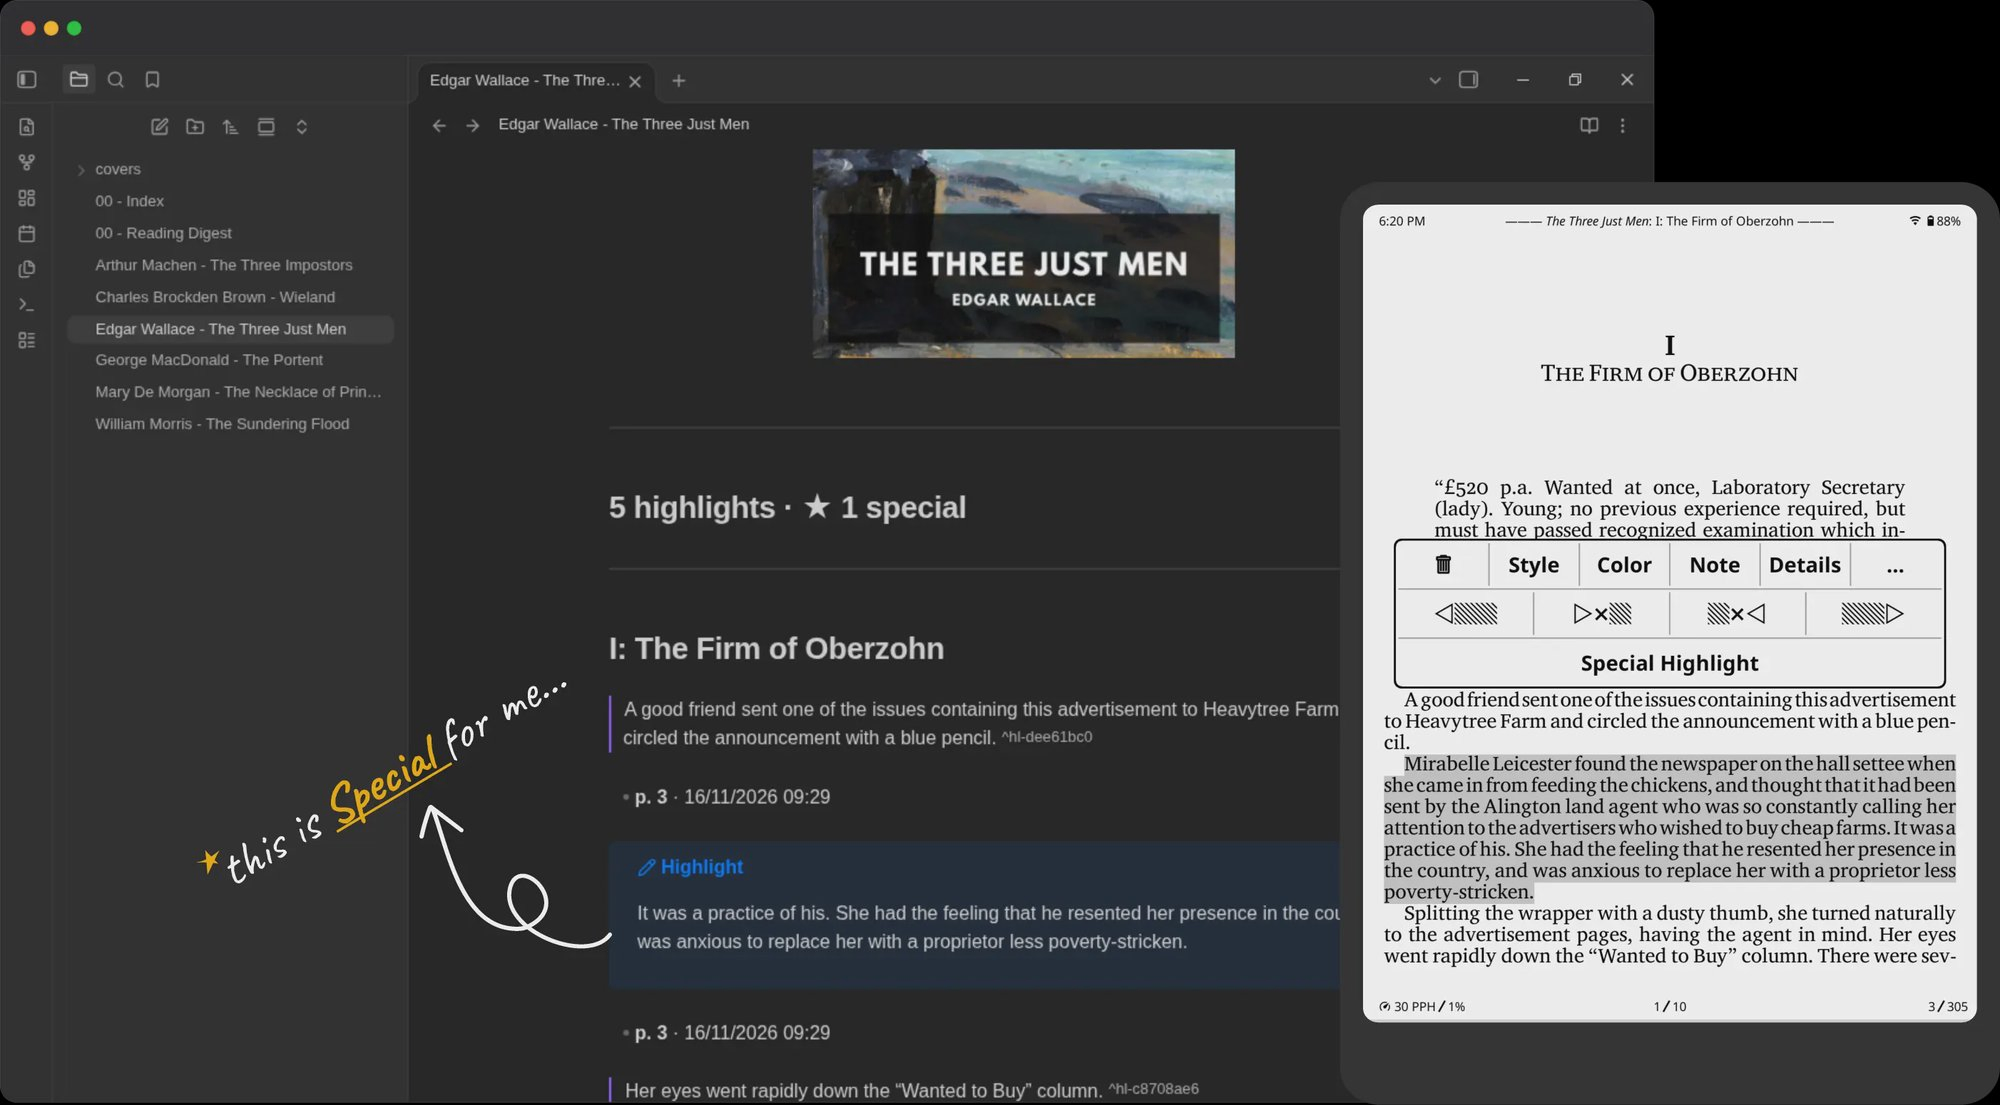
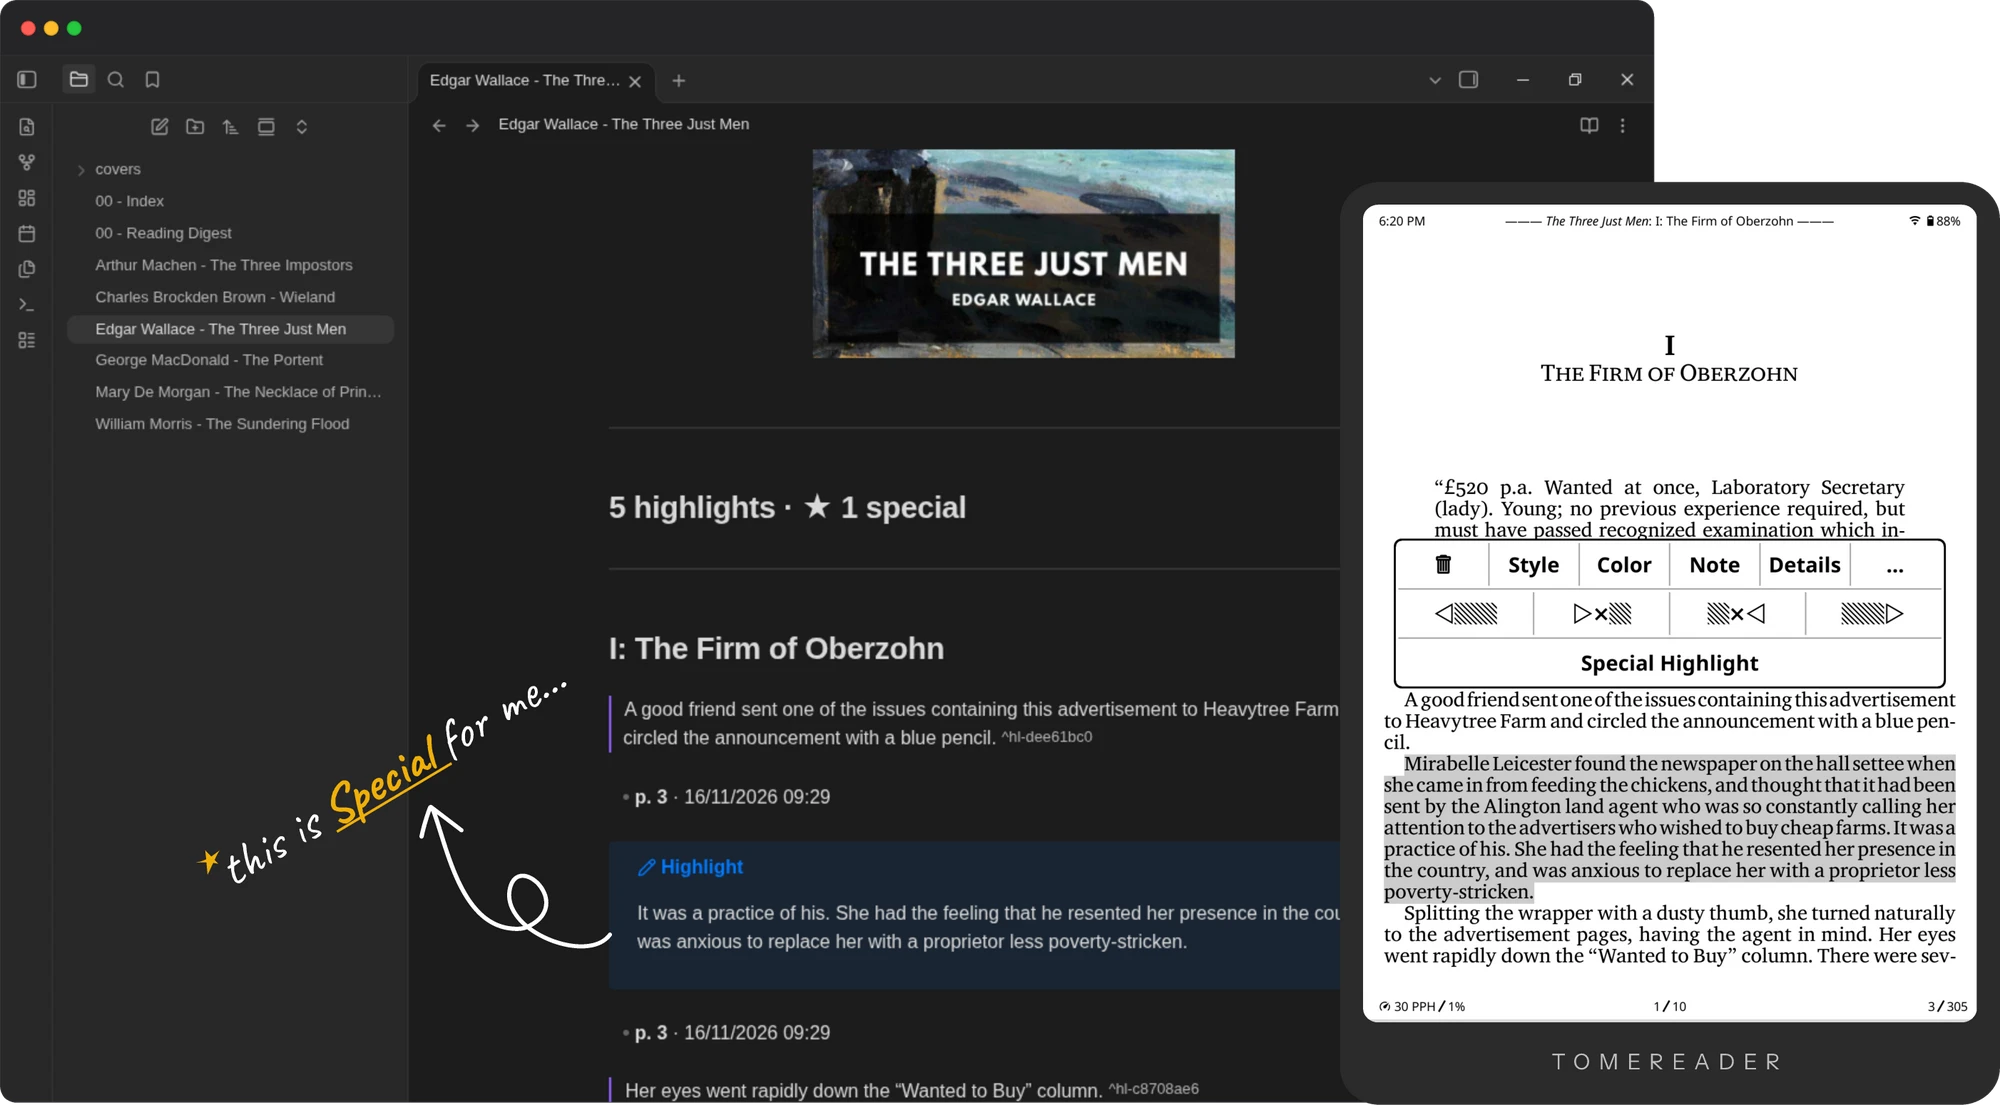
feat(site): replace hero showcase with transparent alpha webp

diff --git a/site/src/pages/index.html b/site/src/pages/index.html
@@ -31,8 +31,8 @@
 
             <img
               class="showcase-img"
-              src="{{base}}/assets/img/hero-showcase.jpg"
-              alt="Obsidian book note alongside KOReader on Kindle showing the Special Highlight menu"
+              src="{{base}}/assets/img/hero-showcase.webp"
+              alt="Obsidian book note alongside KOReader on Tomereader showing the Special Highlight menu"
               width="2000"
               height="1105"
             />
